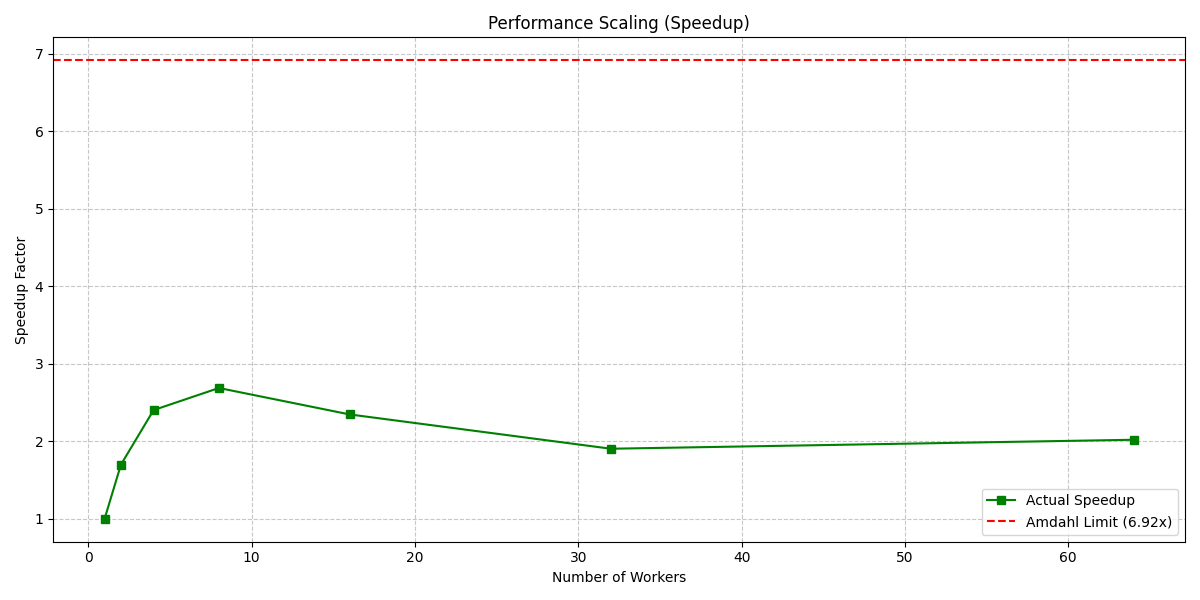
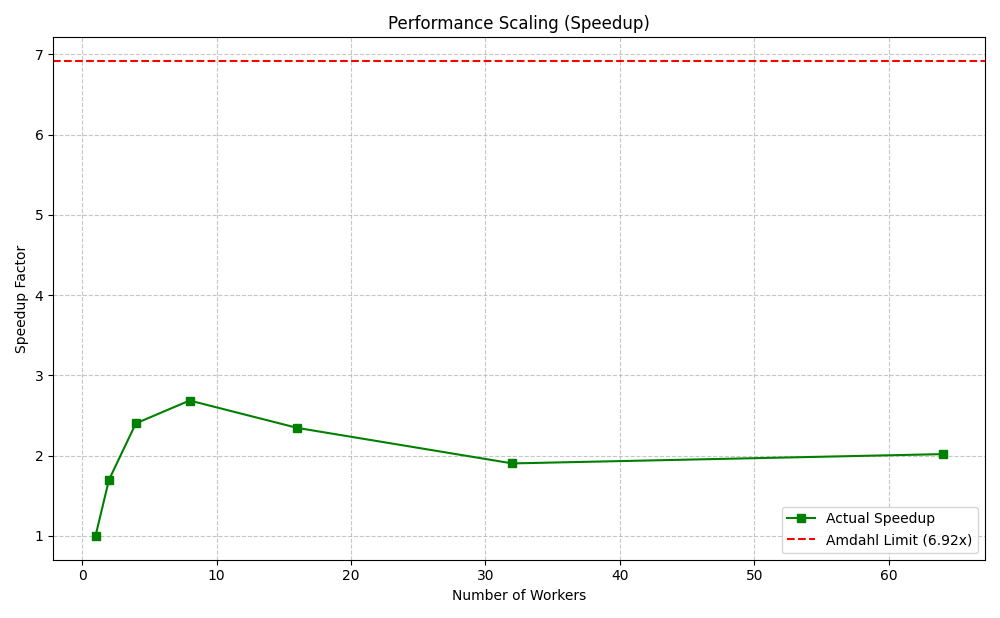
yo

diff --git a/create_plots.py b/create_plots.py
@@ -16,7 +16,7 @@ s_portion = s_time / t_1
 
 max_theo_speedup = 1 / s_portion
 
-plt.figure(figsize=(12, 6))
+plt.figure(figsize=(10, 6.18))
 plt.plot(df['workers'], df['speedup'], marker='s', color='green', label='Actual Speedup')
 plt.axhline(y=max_theo_speedup, color='red', linestyle='--', 
             label=f'Amdahl Limit ({max_theo_speedup:.2f}x)')
